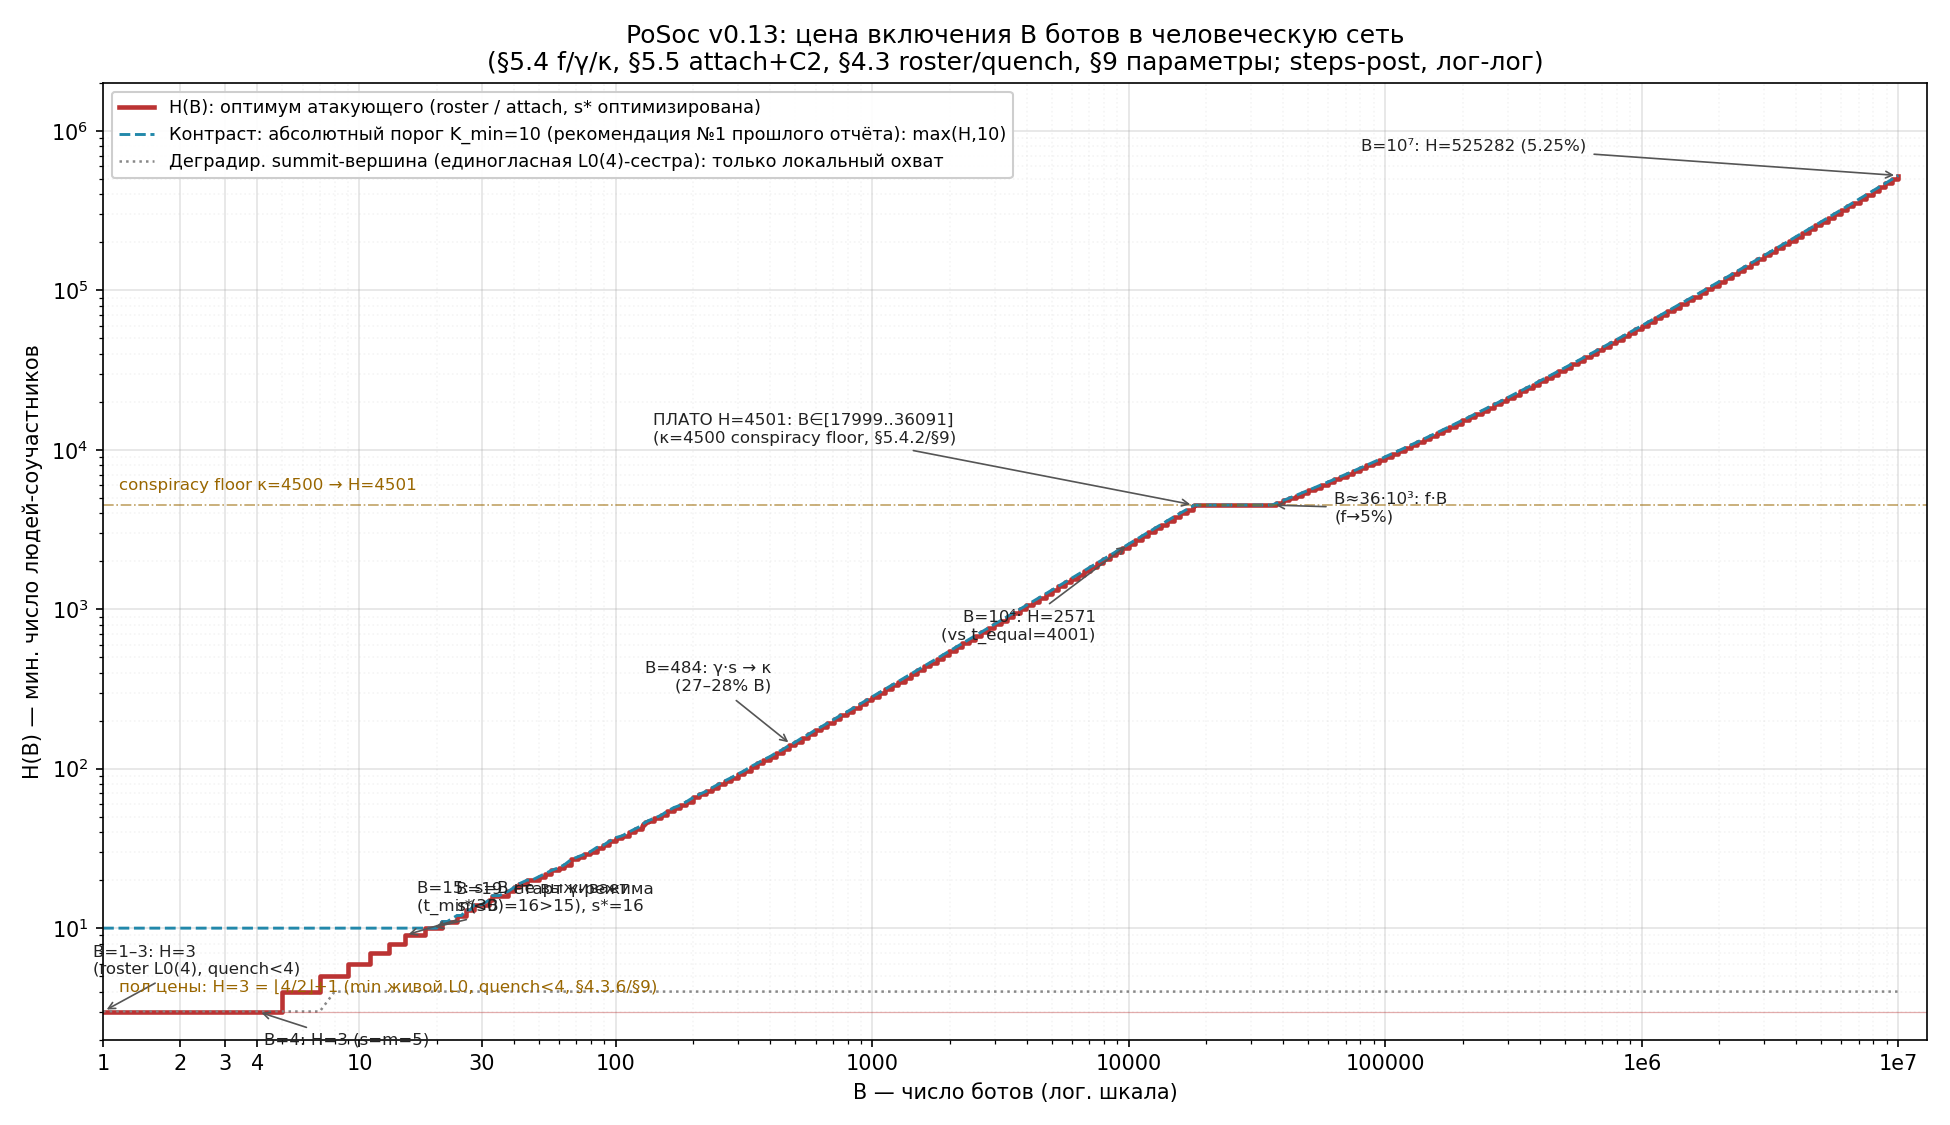
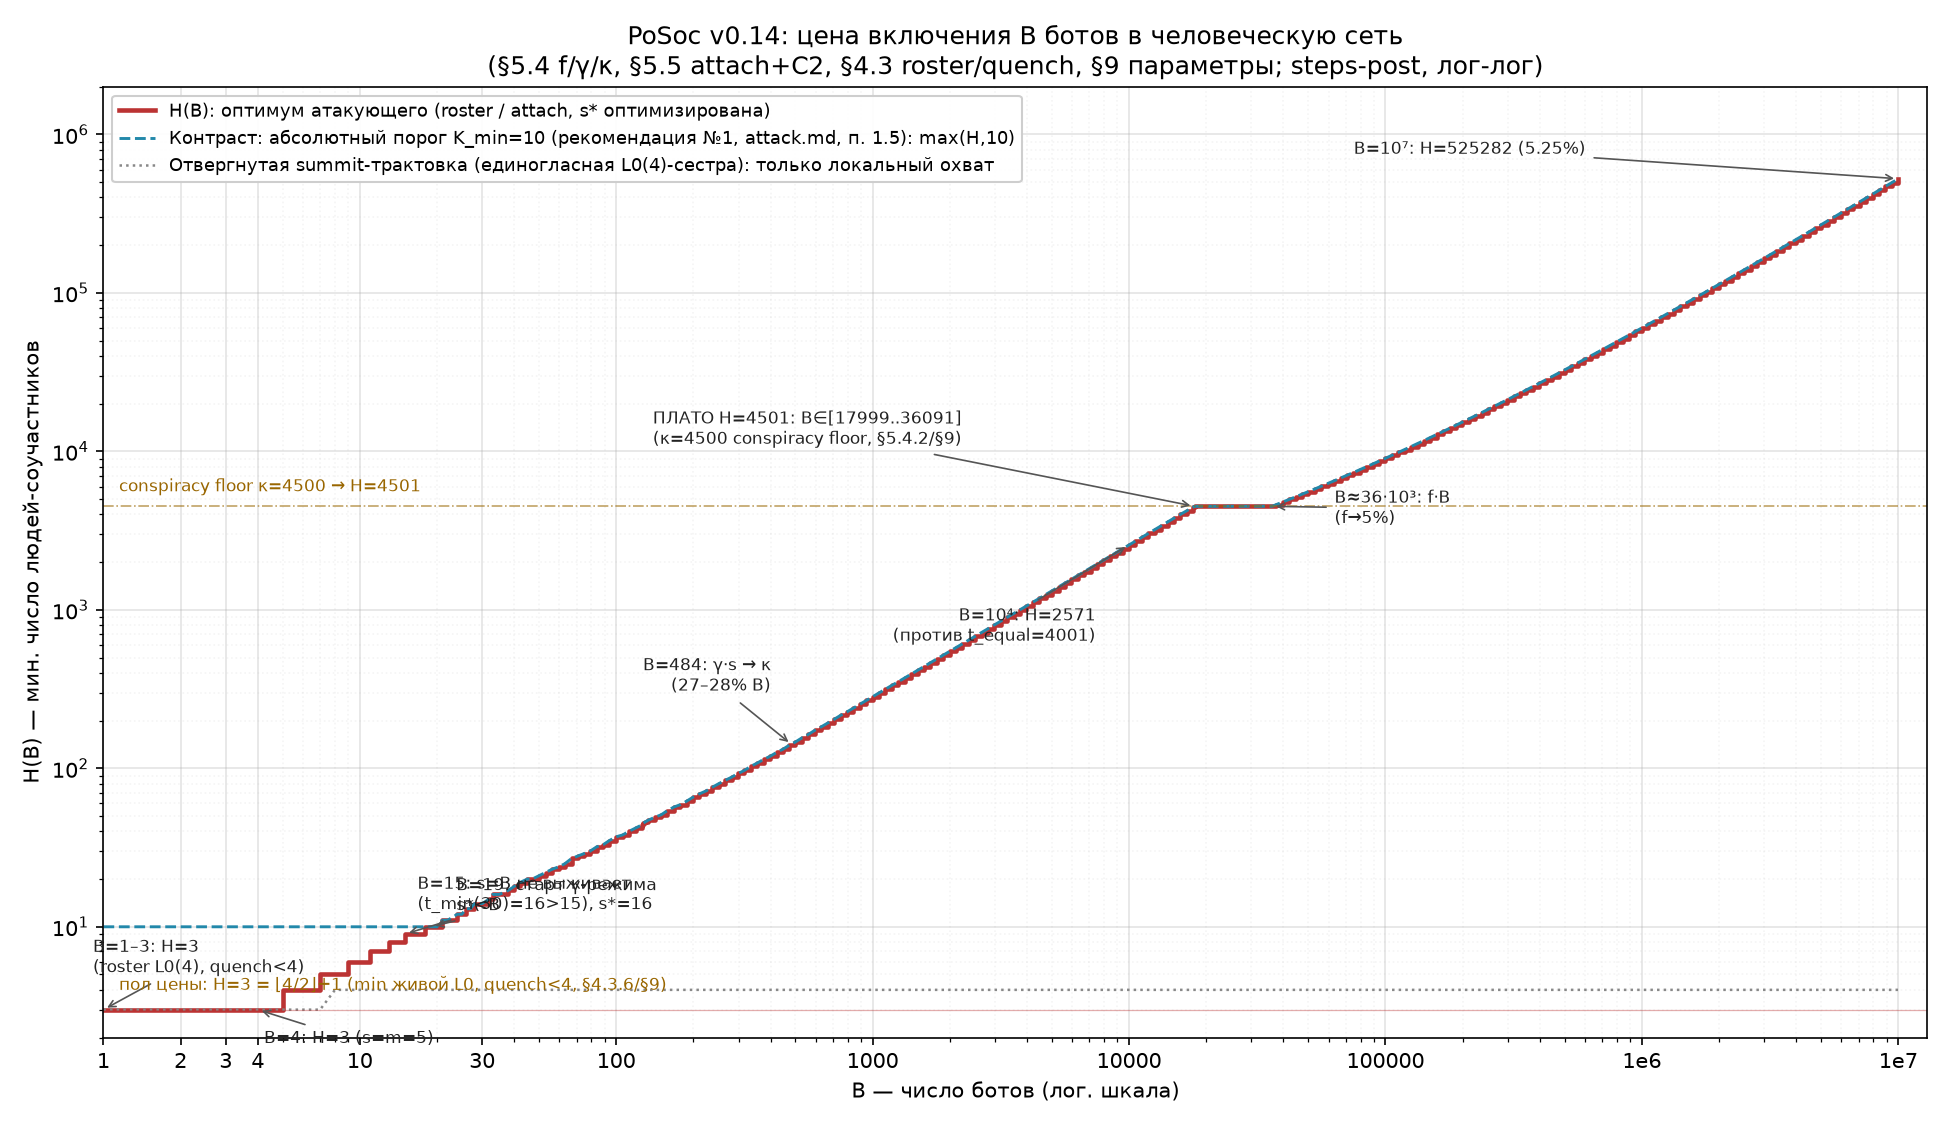
vulnerability/sybil: plot labels cite spec v0.14 and attack.md; regenerate PNG

diff --git a/vulnerability/sybil/plot.py b/vulnerability/sybil/plot.py
@@ -21,9 +21,9 @@ fig, ax = plt.subplots(figsize=(13, 7.5), dpi=150)
 ax.plot(B, H, lw=2.2, color='#b33', drawstyle='steps-post',
         label='H(B): оптимум атакующего (roster / attach, s* оптимизирована)')
 ax.plot(B, HK, lw=1.4, ls='--', color='#28a',
-        label='Контраст: абсолютный порог K_min=10 (рекомендация №1 прошлого отчёта): max(H,10)')
+        label='Контраст: абсолютный порог K_min=10 (рекомендация №1, attack.md, п. 1.5): max(H,10)')
 ax.plot(B, HS, lw=1.2, ls=':', color='#888',
-        label='Деградир. summit-вершина (единогласная L0(4)-сестра): только локальный охват')
+        label='Отвергнутая summit-трактовка (единогласная L0(4)-сестра): только локальный охват')
 
 # изломы/аннотации
 ann = [
@@ -35,7 +35,7 @@ ann = [
     (484,  141,    'B=484: γ·s → κ\n(27–28% B)', (-10, 26), 'right'),
     (17999, 4501,  'ПЛАТО H=4501: B∈[17999..36091]\n(κ=4500 conspiracy floor, §5.4.2/§9)', (-260, 30), 'left'),
     (36092, 4502,  'B≈36·10³: f·B\n(f→5%)', (30, -8), 'left'),
-    (10**4, 2571,  'B=10⁴: H=2571\n(vs t_equal=4001)', (-16, -46), 'right'),
+    (10**4, 2571,  'B=10⁴: H=2571\n(против t_equal=4001)', (-16, -46), 'right'),
     (10**7, 525282, 'B=10⁷: H=525282 (5.25%)', (-150, 12), 'right'),
 ]
 for x, y, txt, (dx, dy), ha in ann:
@@ -55,7 +55,7 @@ ax.set_xticks([1, 2, 3, 4, 10, 30, 10**2, 10**3, 10**4, 10**5, 10**6, 10**7])
 ax.xaxis.set_major_formatter(FuncFormatter(lambda x, _: ('%g' % x).replace('e+0', 'e')))
 ax.set_xlabel('B — число ботов (лог. шкала)')
 ax.set_ylabel('H(B) — мин. число людей-соучастников')
-ax.set_title('PoSoc v0.13: цена включения B ботов в человеческую сеть\n'
+ax.set_title('PoSoc v0.14: цена включения B ботов в человеческую сеть\n'
              '(§5.4 f/γ/κ, §5.5 attach+C2, §4.3 roster/quench, §9 параметры; steps-post, лог-лог)')
 ax.grid(True, which='major', alpha=0.35, ls='-')
 ax.grid(True, which='minor', alpha=0.12, ls=':')
